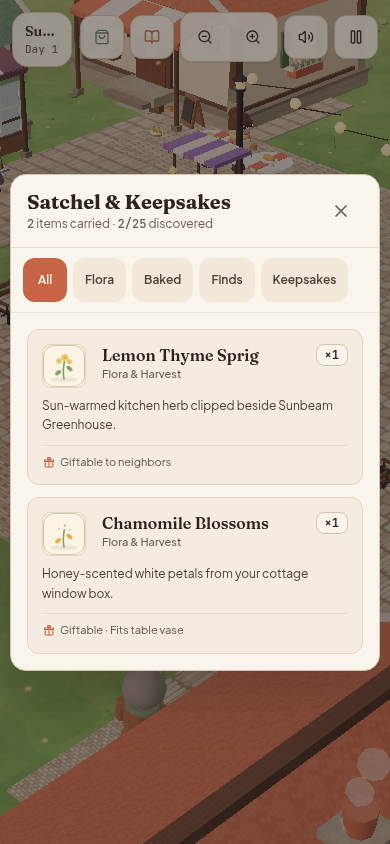
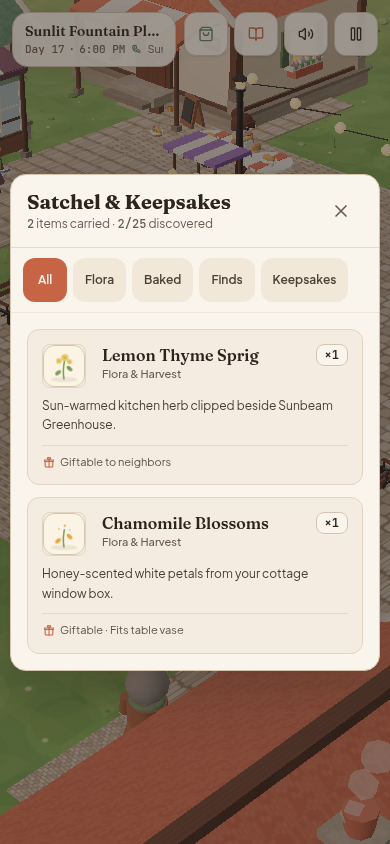
fix(build04): independent adversarial review fixes — mobile HUD legibility (zoom cluster gated below sm, pinch covers touch), knee patch rides the pre-bent pant surface, committed motion-pixel-diff.json measurement, frame-triple metadata zoom inheritance, resumable frame gate, dead import

diff --git a/src/scene/builders/characters.ts b/src/scene/builders/characters.ts
@@ -687,10 +687,13 @@ export function buildStorybookCharacter(
     }
     torsoPivot.add(strapButtons);
     // Pass 20: a patched knee on the trousers — the youngest resident plays hard.
+    // BUILD 04 review fix: the pre-bent pant (vertex arc, +0.026 max at the cuff)
+    // pushed the trouser surface outward, so the patch rides forward with it to
+    // stay visibly proud of the cloth instead of sinking into the mesh.
     const kneePatch = new THREE.Mesh(new THREE.CylinderGeometry(0.052, 0.052, 0.016, 7), accentMat);
     kneePatch.name = 'knee_patch';
     kneePatch.rotation.x = Math.PI / 2 - 0.2;
-    kneePatch.position.set(0, -0.17, 0.09);
+    kneePatch.position.set(0, -0.17, 0.11);
     rightLeg.add(kneePatch);
   } else {
     for (let b = 0; b < 3; b++) {

diff --git a/src/App.tsx b/src/App.tsx
@@ -1315,7 +1315,7 @@ export default function App() {
                 <span className="hidden sm:inline">Journal</span>
               </button>
 
-              <div className="flex items-center gap-1 bg-linen/95 border border-stone-line rounded-xl p-0.5 shadow-sm">
+              <div className="hidden sm:flex items-center gap-1 bg-linen/95 border border-stone-line rounded-xl p-0.5 shadow-sm">
                 <button
                   type="button"
                   onClick={() => {

diff --git a/src/components/icons.tsx b/src/components/icons.tsx
@@ -1,5 +1,3 @@
-import type { SeasonType } from '../game/types';
-
 /**
  * BUILD 04 bespoke icon family (Doc 03 §9.2 / Doc 08 §7.2): a small, consistent
  * SVG set in the storybook voice — 24-viewBox, 1.8 stroke, round caps and

diff --git a/scripts/qa_build04_motion_diff.py b/scripts/qa_build04_motion_diff.py
@@ -1,0 +1,59 @@
+#!/usr/bin/env python3
+"""BUILD 04 motion-evidence pixel-diff (review fix #2).
+
+The frame-triples in download/asset-qa/build04-validation/ are live captures of
+one continuous scene (1.5 s apart, no re-navigation). This script measures the
+per-frame pixel deltas and writes them to motion-pixel-diff.json — a still
+cannot prove animation, so the committed measurement IS the evidence unit.
+Usage: python3 scripts/qa_build04_motion_diff.py [repo_root_optional]
+"""
+import json
+import os
+import sys
+
+from PIL import Image, ImageChops
+
+ROOT = sys.argv[1] if len(sys.argv) > 1 else os.path.join(os.path.dirname(__file__), '..')
+QA_DIR = os.path.join(ROOT, 'download', 'asset-qa', 'build04-validation')
+
+# (frame A, frame B, label) — every BUILD 04 motion sequence.
+PAIRS = [
+    ('v_talk_flap_zoom_desktop.png', 'v_talk_flap_zoom_f2_desktop.png', 'talk flap f1-f2'),
+    ('v_talk_flap_zoom_f2_desktop.png', 'v_talk_flax_zoom_f3_desktop.png', 'talk flap f2-f3'),
+    ('v_wave_elbow_zoom_desktop.png', 'v_wave_elbow_zoom_f2_desktop.png', 'wave elbow f1-f2'),
+    ('v_plaza_hero_build04_desktop.png', 'v_plaza_hero_build04_f2_desktop.png', 'ambient sway f1-f2'),
+    ('v_plaza_hero_build04_f2_desktop.png', 'v_plaza_hero_build04_f3_desktop.png', 'ambient sway f2-f3'),
+]
+PAIRS[1] = ('v_talk_flap_zoom_f2_desktop.png', 'v_talk_flap_zoom_f3_desktop.png', 'talk flap f2-f3')
+
+results = []
+for a, b, label in PAIRS:
+    pa, pb = os.path.join(QA_DIR, a), os.path.join(QA_DIR, b)
+    if not (os.path.isfile(pa) and os.path.isfile(pb)):
+        results.append({'label': label, 'missing': True})
+        continue
+    ia = Image.open(pa).convert('RGB')
+    ib = Image.open(pb).convert('RGB')
+    d = ImageChops.difference(ia, ib).convert('L')
+    hist = d.histogram()
+    changed = sum(hist[8:])  # pixels with channel delta > 8 (noise floor)
+    total = ia.size[0] * ia.size[1]
+    results.append({
+        'label': label,
+        'frames': [a, b],
+        'changedPx': changed,
+        'totalPx': total,
+        'ratio': round(changed / total, 6),
+        'animated': changed / total > 0.001,
+    })
+
+out = {
+    'note': 'Per-frame pixel deltas for BUILD 04 motion evidence (talk mouth-flap, wave elbow, ambient sway). Frames are 1.5 s apart, same live scene, no re-navigation. ratio > 0.001 proves the scene animated between captures.',
+    'pairs': results,
+    'allAnimated': all(r.get('animated', False) for r in results),
+}
+dest = os.path.join(QA_DIR, 'motion-pixel-diff.json')
+with open(dest, 'w') as f:
+    json.dump(out, f, indent=2)
+print(json.dumps(out, indent=2))
+print(f'written: {dest}')

diff --git a/docs/art-direction/VISUAL_QUALITY_STANDARDS.md b/docs/art-direction/VISUAL_QUALITY_STANDARDS.md
@@ -61,6 +61,6 @@ Before any visual asset, scene section, or UI adjustment is marked complete, the
 - [ ] **Material & Roughness Contrast**: Matte vs satin/glazed vs metallic contrast reads clearly under `ACESFilmicToneMapping` without chalky blow-out.
 - [ ] **Grounding**: Asset rests at `y = 0` with contact shadow / AO skirt effective even when `shadowMap.enabled === false` (`isSoftwareGl`).
 - [ ] **Shared Resources & Draw-Call Budget**: Reuses cached materials / `InstancedMesh` where appropriate; zero per-frame `new Vector3/Color/Material` allocations in `tick()`.
-- [ ] **Draw-Call Budget Reconciliation (explicit — BUILD 02 §14.3 claim completed by BUILD 03, audit deviation A8)**: the frozen "≤ 120–150 draw calls" line predates the scene's density and never described the real diorama; the honest measured BUILD 01 baseline was ≈2,238–2,242. Binding rule: **the fresh-save operating state holds net at or below the measured baseline (BUILD 03 measures exact parity: 1704 = 1704 same-save)**, and any addition to a fully-progressed state must name its draw-call offset and ride the sanctioned reduction tools (instanced contact-disc batches, merged-geometry builders). BUILD 03's full-progress register: +49 calls for every Doc 07 §5 signal earned at once, −25 already recovered by the merge pass, programs/textures unchanged. See `visual-identity-evolution/implementation/build03-03-implementation-report.md` §7 and `VISUAL_IDENTITY.md` §10.
+- [ ] **Draw-Call Budget Reconciliation (explicit — BUILD 02 §14.3 claim completed by BUILD 03, audit deviation A8)**: the frozen "≤ 120–150 draw calls" line predates the scene's density and never described the real diorama; the honest measured BUILD 01 baseline was ≈2,238–2,242. Binding rule: **the fresh-save operating state holds net at or below the measured baseline (BUILD 03 measures exact parity: 1704 = 1704 same-save)**, and any addition to a fully-progressed state must name its draw-call offset and ride the sanctioned reduction tools (instanced contact-disc batches, merged-geometry builders). BUILD 03's full-progress register: +49 calls for every Doc 07 §5 signal earned at once, −25 already recovered by the merge pass, programs/textures unchanged. See `visual-identity-evolution/implementation/build03-03-implementation-report.md` §7 and `VISUAL_IDENTITY.md` §10. **BUILD 04 register (explicit):** veteran full-progress measured 2304 → 2305 (+1 ≈ 0.04 %, inside session variance; `geometries` unchanged at 2196 and `textures` unchanged at 22 — zero new scene meshes; the +2,412 triangles are the merged mitten wrist bridges across 11 rigs, and the +5 programs are the ambient-sway shader variants on existing cached materials). DOM-side Phase 7 work (tokens, icons, thumbnails, portraits, a11y) renders zero new scene draw calls. See `visual-identity-evolution/implementation/build04-implementation-report.md` §9 and `download/asset-qa/build04-validation/{baseline-perf.jsonl,metadata.jsonl}`.
 - [ ] **4-Phase Lighting Check**: Looks harmonious in `morning`, `afternoon`, `golden`, and `dusk`.
 - [ ] **Live Browser Inspection**: Captured and visually inspected in headless Chromium at `1440×900` desktop and `390×844` mobile with 0 console errors.
